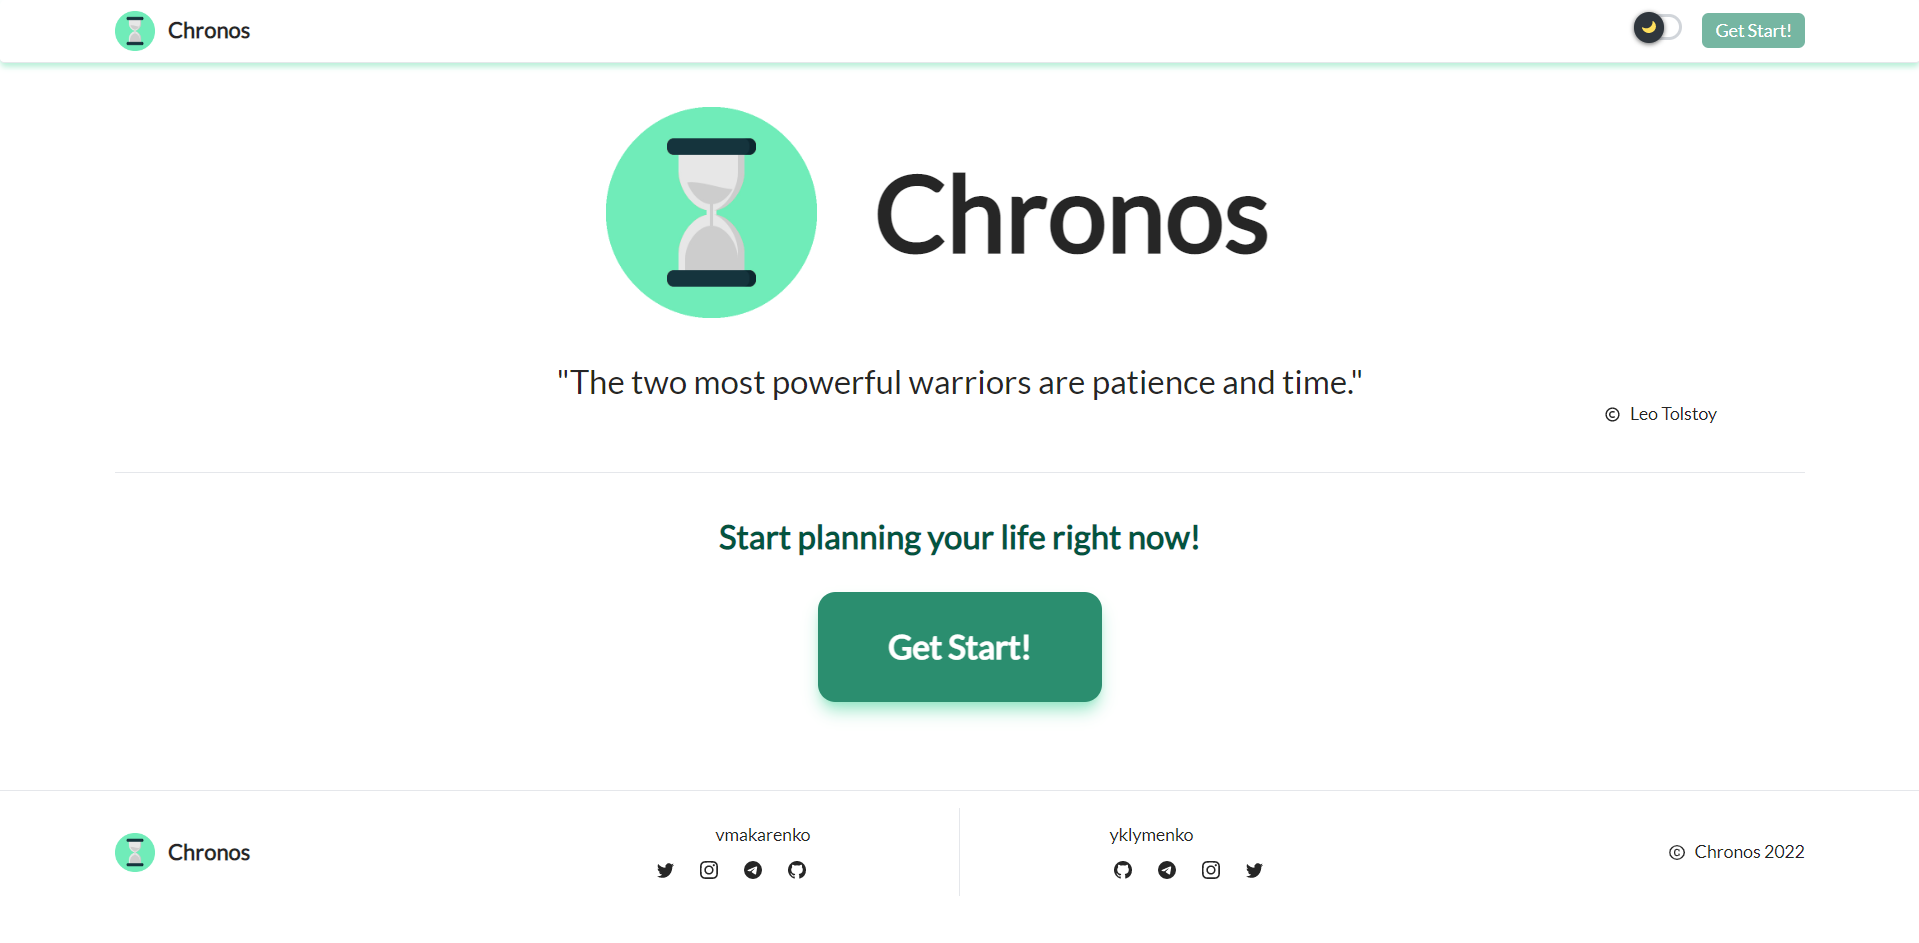
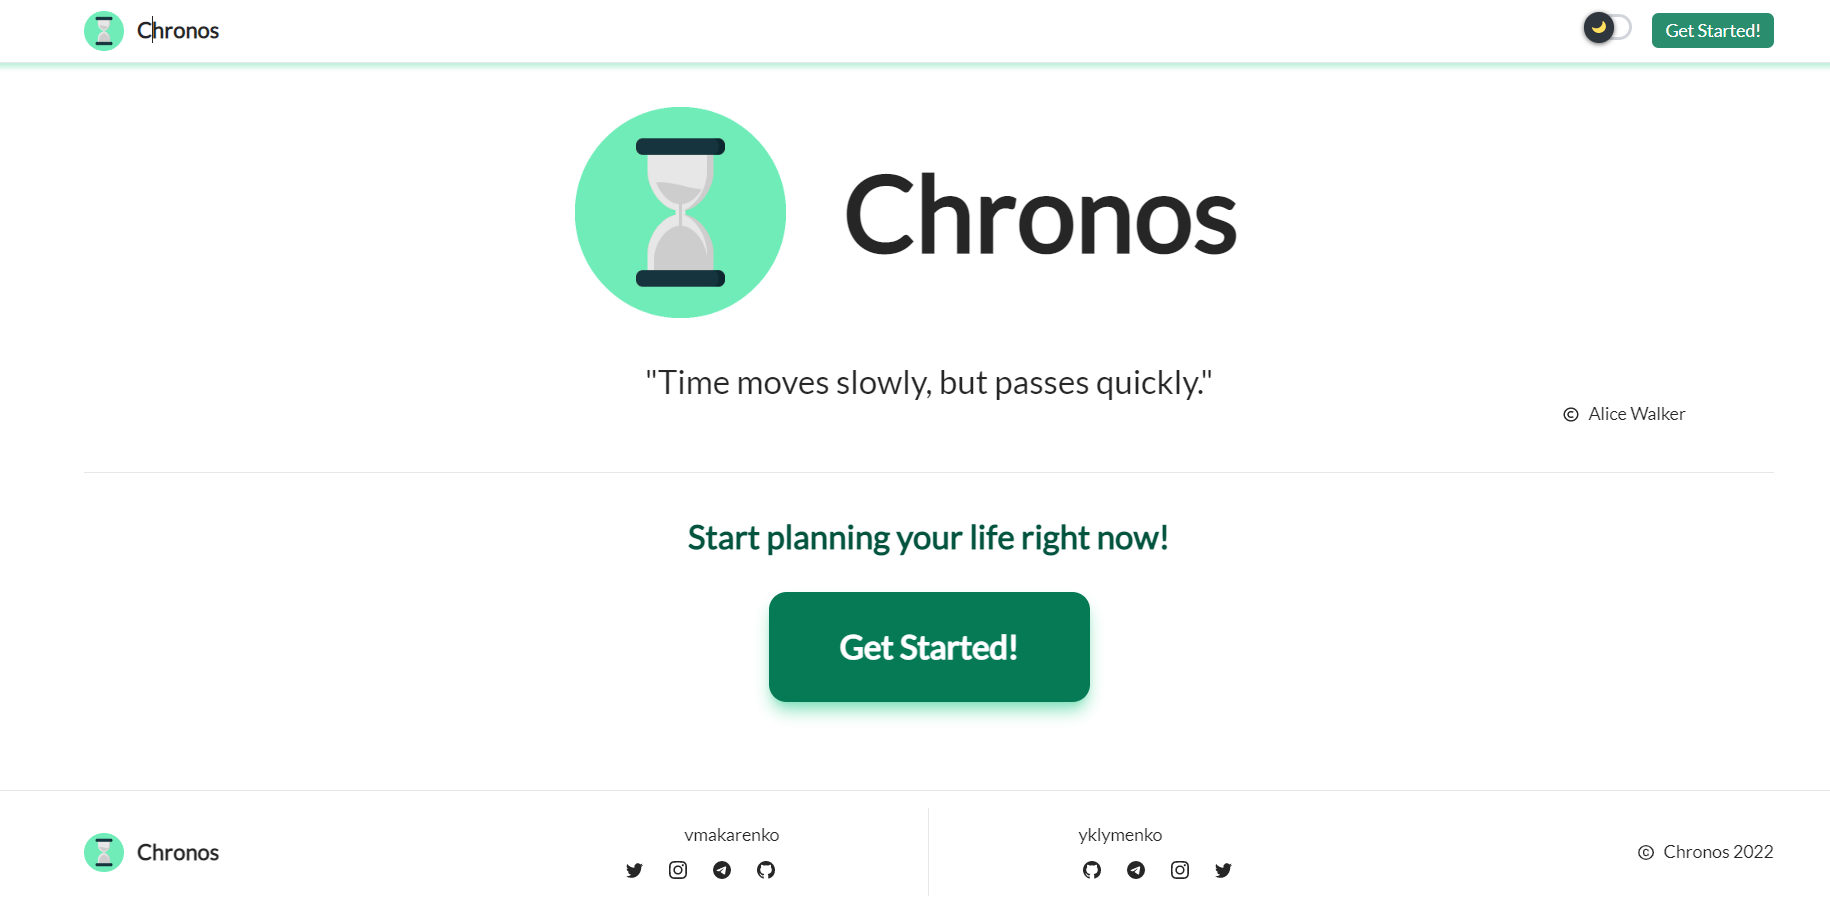
deploy

diff --git a/client/build/index.html b/client/build/index.html
@@ -1,1 +1,1 @@
-<!doctype html><html lang="en"><head><meta charset="utf-8"/><link rel="icon" href="/favicon.ico"/><meta name="viewport" content="width=device-width,initial-scale=1"/><meta name="theme-color" content="#000000"/><title>Chronos</title><link href="https://unpkg.com/tailwindcss@^2/dist/tailwind.min.css" rel="stylesheet"/><link rel="stylesheet" href="https://unpkg.com/flowbite@1.5.4/dist/flowbite.min.css"/><link rel="stylesheet" href="https://fonts.googleapis.com/icon?family=Material+Icons"/><script defer="defer" src="/static/js/main.1216adbf.js"></script><link href="/static/css/main.a751e366.css" rel="stylesheet"></head><body><div id="root"></div><script src="https://unpkg.com/flowbite@1.5.3/dist/flowbite.js"></script></body></html>
+<!doctype html><html lang="en"><head><meta charset="utf-8"/><link rel="icon" href="/favicon.ico"/><meta name="viewport" content="width=device-width,initial-scale=1"/><meta name="theme-color" content="#000000"/><title>Chronos</title><link href="https://unpkg.com/tailwindcss@^2/dist/tailwind.min.css" rel="stylesheet"/><link rel="stylesheet" href="https://unpkg.com/flowbite@1.5.4/dist/flowbite.min.css"/><link rel="stylesheet" href="https://fonts.googleapis.com/icon?family=Material+Icons"/><script defer="defer" src="/static/js/main.1b509a94.js"></script><link href="/static/css/main.a751e366.css" rel="stylesheet"></head><body><div id="root"></div><script src="https://unpkg.com/flowbite@1.5.3/dist/flowbite.js"></script></body></html>

diff --git a/client/src/pages/Main.jsx b/client/src/pages/Main.jsx
@@ -28,7 +28,7 @@ export const Main = () => {
       <button
             className='lg:p-8 lg:px-16 p-5 px-10 mt-8 bg-green-600 rounded-2xl text-white font-bold lg:text-3xl text-2xl shadow-lg shadow-green-300 hover:bg-green-700 animate-pulse hover:animate-none'
             onClick={() => navigate('/auth')}>
-            Get Start!
+            Get Started!
           </button>
       </div>
     </div>

diff --git a/client/src/components/NavBar.jsx b/client/src/components/NavBar.jsx
@@ -75,7 +75,7 @@ export const NavBar = () => {
           <button
             className='p-1 px-3 bg-green-600 rounded-md text-white hover:bg-green-700 animate-pulse hover:animate-none'
             onClick={() => navigate('/auth')}>
-            Get Start!
+            Get Started!
           </button>
         )}
         {isAuthenticated && <Navbar.Toggle />}
